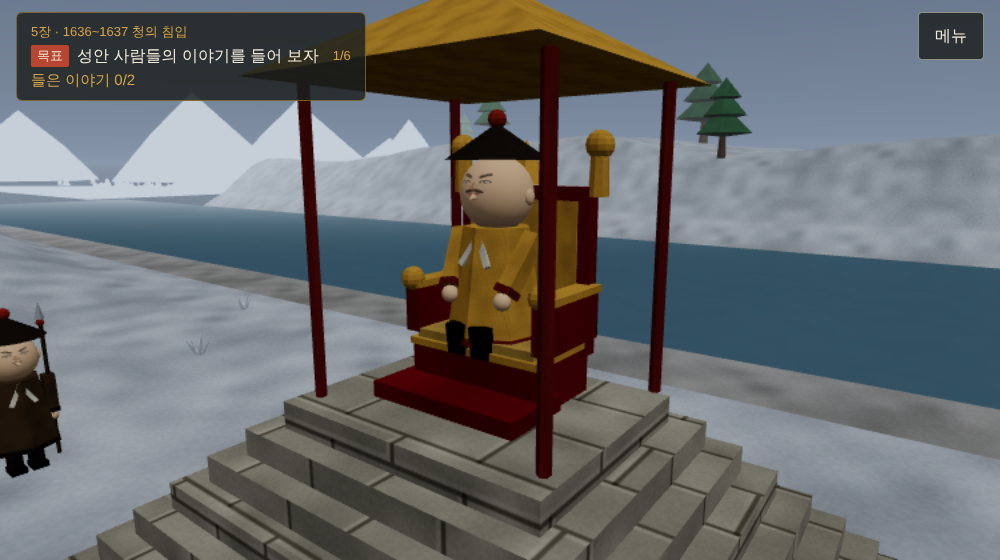
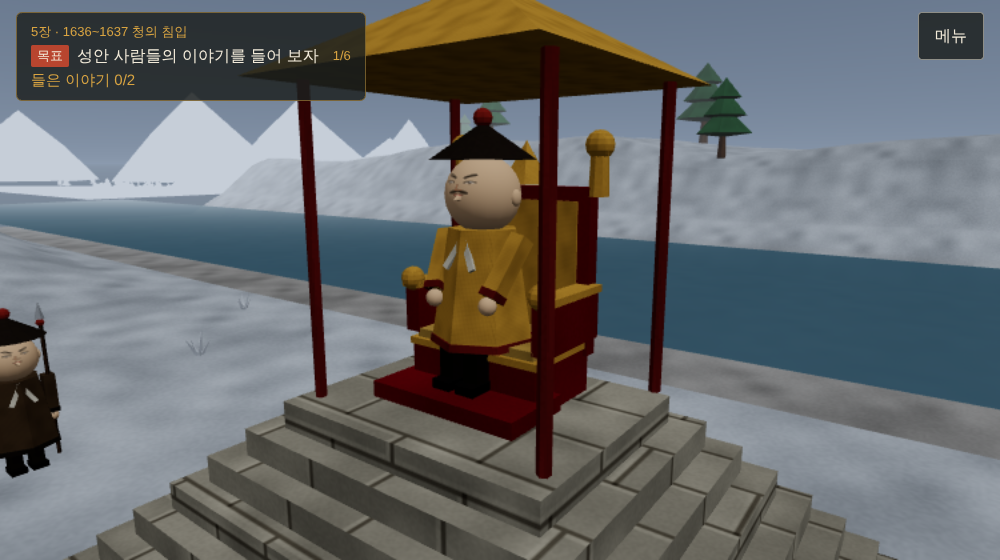
조선 5장 삼전도: 청 황제만 무릎 관절을 넣어 의자에 자연스럽게 앉힘(종아리가 발받침으로). D-27 결정 기록
Claude-Session: https://claude.ai/code/session_014LB5kAoBxkJ3uzw5BHNRPe

Changed region(s): [[0.403, 0.1821, 0.558, 0.7286]]

diff --git a/chapters/joseon/j5/chapter.js b/chapters/joseon/j5/chapter.js
@@ -155,8 +155,16 @@ async function samjeondo(ctx) {
   const crest = part(new THREE.ConeGeometry(0.32, 0.5, 6), GOLD, 0, 2.62, -0.52); crest.rotation.y = Math.PI / 6; // 등받이 가운데 꼭대기 장식
   const emperor = makePerson({ robe: 0xd9a441, hat: 'qing', trim: 0x8a2f24, face: { eyes: 'stern', brows: 'stern', mouth: 'flat', beard: 'mustache' } }, { track: false });
   emperor.userData.noWalk = true; emperor.userData.manual = true;
-  emperor.position.set(0, top + 0.18, -6.35); // 엉덩이(0.55)가 방석 위에 오도록 앉는다
-  emperor.userData.legs.forEach(l => { l.rotation.x = -1.45; });                    // 다리를 앞으로 내밀어 앉은 자세
+  emperor.position.set(0, top + 0.18, -6.1); // 엉덩이(0.55)가 방석 위에 오도록 앉는다
+  // 황제만 다리에 무릎 관절을 넣어 앉힌다: 허벅지는 앞으로 눕고, 무릎에서 종아리가 아래로 내려와 발이 발받침에 닿는다
+  emperor.userData.legs.forEach(l => {
+    l.clear();
+    const thigh = new THREE.Mesh(new THREE.BoxGeometry(0.22, 0.34, 0.24), mat(0x2b241c)); thigh.position.y = -0.17; l.add(thigh);
+    const knee = new THREE.Group(); knee.position.y = -0.34; l.add(knee);
+    const shin = new THREE.Mesh(new THREE.BoxGeometry(0.2, 0.42, 0.22), mat(0x2b241c)); shin.position.y = -0.21; knee.add(shin);
+    const shoe = new THREE.Mesh(new THREE.BoxGeometry(0.24, 0.12, 0.34), mat(0x1e1a16, 'grain')); shoe.position.set(0, -0.45, 0.05); knee.add(shoe);
+    l.rotation.x = -1.5; knee.rotation.x = 1.5; l.userData.knee = knee;           // 허벅지는 앞으로, 종아리는 아래로
+  });
   emperor.userData.arms.forEach((a, i) => { a.rotation.x = -0.55; a.rotation.z = (i ? -1 : 1) * 0.18; }); // 두 팔을 팔걸이에
   g.add(emperor);
   for (const sd of [-1, 1]) for (let i = 0; i < 5; i++) {

diff --git a/docs/team/decisions.md b/docs/team/decisions.md
@@ -260,5 +260,10 @@
 - 상시 규칙(문·이름판, 낮은 카메라, 정면 대화, 한 문단 줄거리, 두 줄 방법 카드), 탐험은 말이 이어지게(막지 않음).
 - 지킬 것: 척화·주화는 옳고 그름을 매기지 않는다. 출처 S38·S47·S63 안에서.
 - 만든 것: 서문을 문짝 있는 문으로 바꾸고 학생이 서문으로 들어옴(들어온 뒤 닫힘)·「남한산성」 이름판, 병사·창고지기 아무 차례(받아 잇는 한 줄), 한 명 이상 들으면 행궁 앞에서 김상헌·최명길이 차례로 말하는 의논 장면(카메라가 말하는 사람 쪽으로). 행궁 마당: 신하 넷(척화 둘·주화 둘, 어느 쪽도 옳다고 하지 않음)에게 말을 걸면 생각을 말하고 따라오고, 같은 생각의 대신(김상헌=척화 왼쪽, 최명길=주화 오른쪽) 앞 원에 닿으면 그 곁에 섬, 다른 쪽이면 생각의 이름만 알려 주는 해설. 화톳불: 장작더미에서 장작 묶음을 어깨에 메고(setCarry shoulder) 꺼진 불 여섯을 켬(시간 제한 그대로). 강화도 함락 해설 뒤 인조가 행궁 앞에 나와 앞장서 서문으로 걷고 학생이 따라감(leadWalk), 삼전도에서는 학생이 행렬 맨 뒤에서 함께 걸어 단 아래까지, 삼궤구고두례는 옆 낮은 카메라에서: 천천히 무릎 꿇기(도포 끝이 땅에 닿게 앉고 다리는 뒤로 접힘) → 두 손을 짚으며 고개를 깊이 숙이기 → 몸 들기, 사람마다 0.08초씩 늦게 따라 해 딱딱하지 않게. 청나라 군사 줄은 카메라가 가리지 않게 바깥으로.
-- 2026-10-28 선생님 추가: 청 황제는 황제에 걸맞은 화려한 의자에 앉아 있게 → 붉은 칠·금테 용상(높은 등받이·팔걸이·발받침·금장식)에 앉힘.
+- 2026-10-28 선생님 추가: 청 황제는 황제에 걸맞은 화려한 의자에 앉아 있게 → 붉은 칠·금테 용상(높은 등받이·팔걸이·발받침·금장식)에 앉힘. 이어서 황제만 다리에 무릎 관절을 넣어 허벅지는 앞으로, 종아리는 발받침으로 내려오게 앉힘.
 - 상태: 만듦, 선생님 확인 대기
+
+## D-27 (2026-10-28) 조선 6장(j6 영조·정조와 수원 화성): 말 잇기 + 도르래 직접 당겨 보기 + 물레 돌려 거중기로 돌 옮기기 + 장안문에서 화성 둘러보기
+- 선생님 결정: ① 도르래 고르기 카드 → 정약용 곁에서 도르래 세 개를 직접 당겨 보고 가장 가볍게 들리는 것 고르기 ② 거중기 내리기(때 맞춰 누르기) → 학생이 거중기 물레를 돌려 돌을 들고 빈자리로 걸어가 내려놓기 ③ 마무리: 정조와 함께 장안문에 올라 완성된 화성을 둘러보는 장면 넣기.
+- 탐험은 말이 이어지게(막지 않음), 상시 규칙. 출처 S39~S42·S44·S48 안에서.
+- 상태: 개발 중
